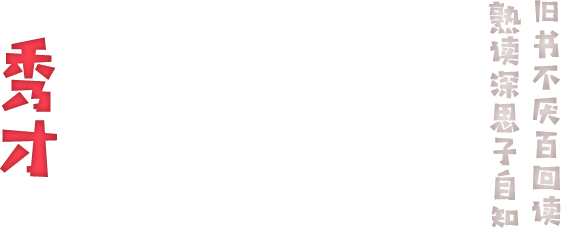
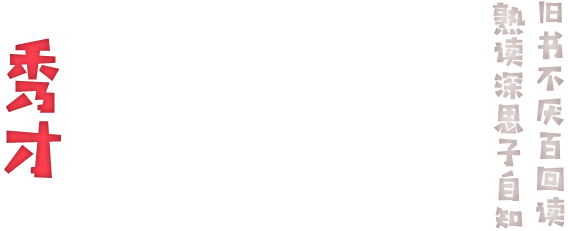
图片尺寸修改

diff --git a/src/pages/pandp/index.vue b/src/pages/pandp/index.vue
@@ -185,11 +185,15 @@ export default {
                 0,
                 word.width,
                 word.height,
-                bg.width * 0.15,
-                bg.height * 0.052,
-                bg.width * 0.7,
-                bg.height * 0.19
+                (bg.width - word.width) / 2,
+                bg.height * 0.053,
+                word.width,
+                word.height
               )
+              // bg.width * 0.15,
+              // bg.height * 0.052,
+              // bg.width * 0.7,
+              // bg.height * 0.19
               text.onload = function() {
                 ctx.drawImage(
                   text,
@@ -221,8 +225,9 @@ export default {
       let ctx = canvas.getContext('2d')
       let lineR = radius + 15
       let score = []
-      if (window.localStorage.getItem('ppscore')) {
-        score = window.localStorage.getItem('ppscore').split(',')
+      let localName = 'ppscore' + this.$route.query.type
+      if (window.localStorage.getItem(localName)) {
+        score = window.localStorage.getItem(localName).split(',')
       } else {
         score = []
       }
@@ -270,7 +275,7 @@ export default {
           ctx.lineTo(k * x, k * y)
         }
       }
-      window.localStorage.setItem('ppscore', score.toString())
+      window.localStorage.setItem(localName, score.toString())
       ctx.closePath()
       ctx.stroke()
       ctx.save()
